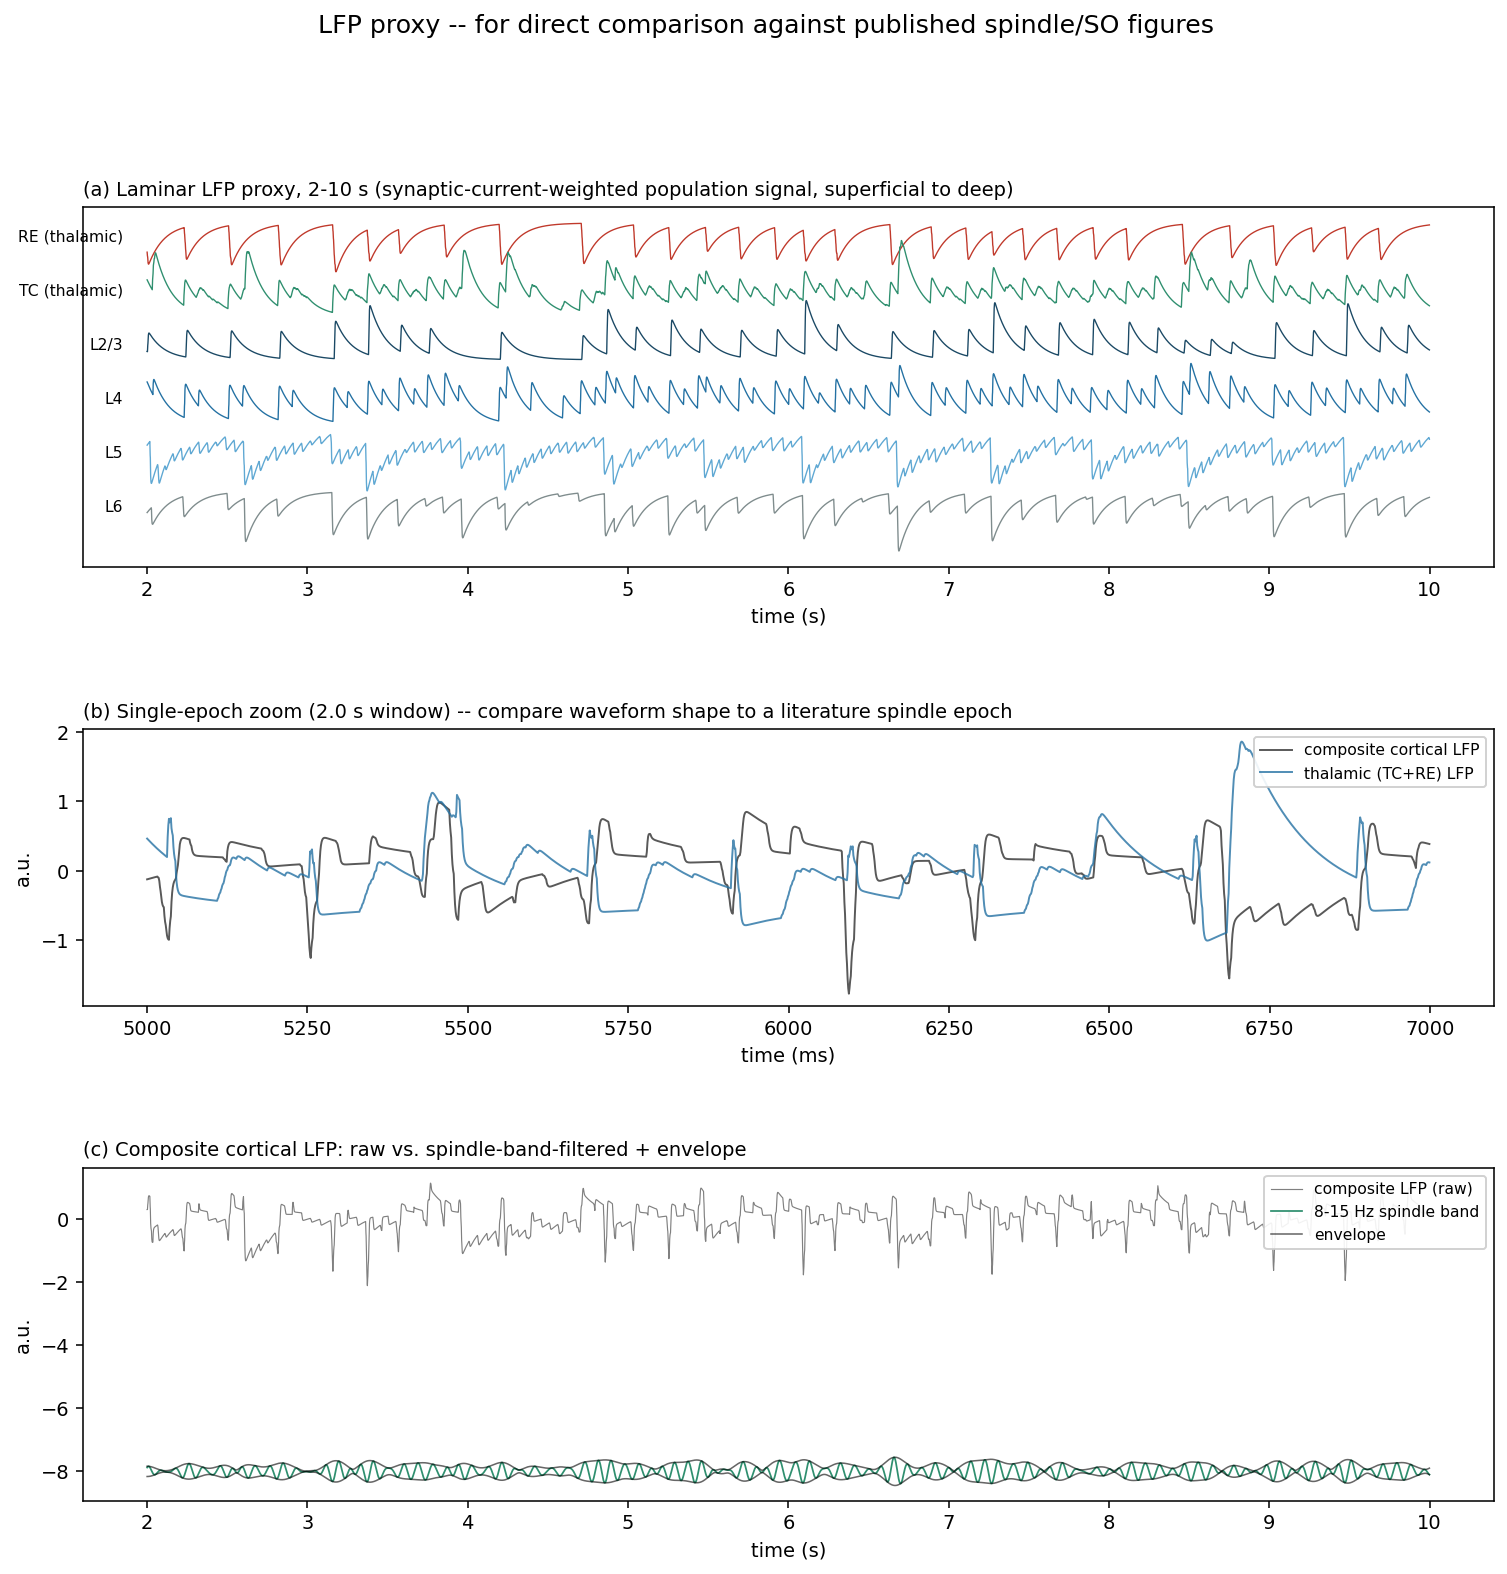
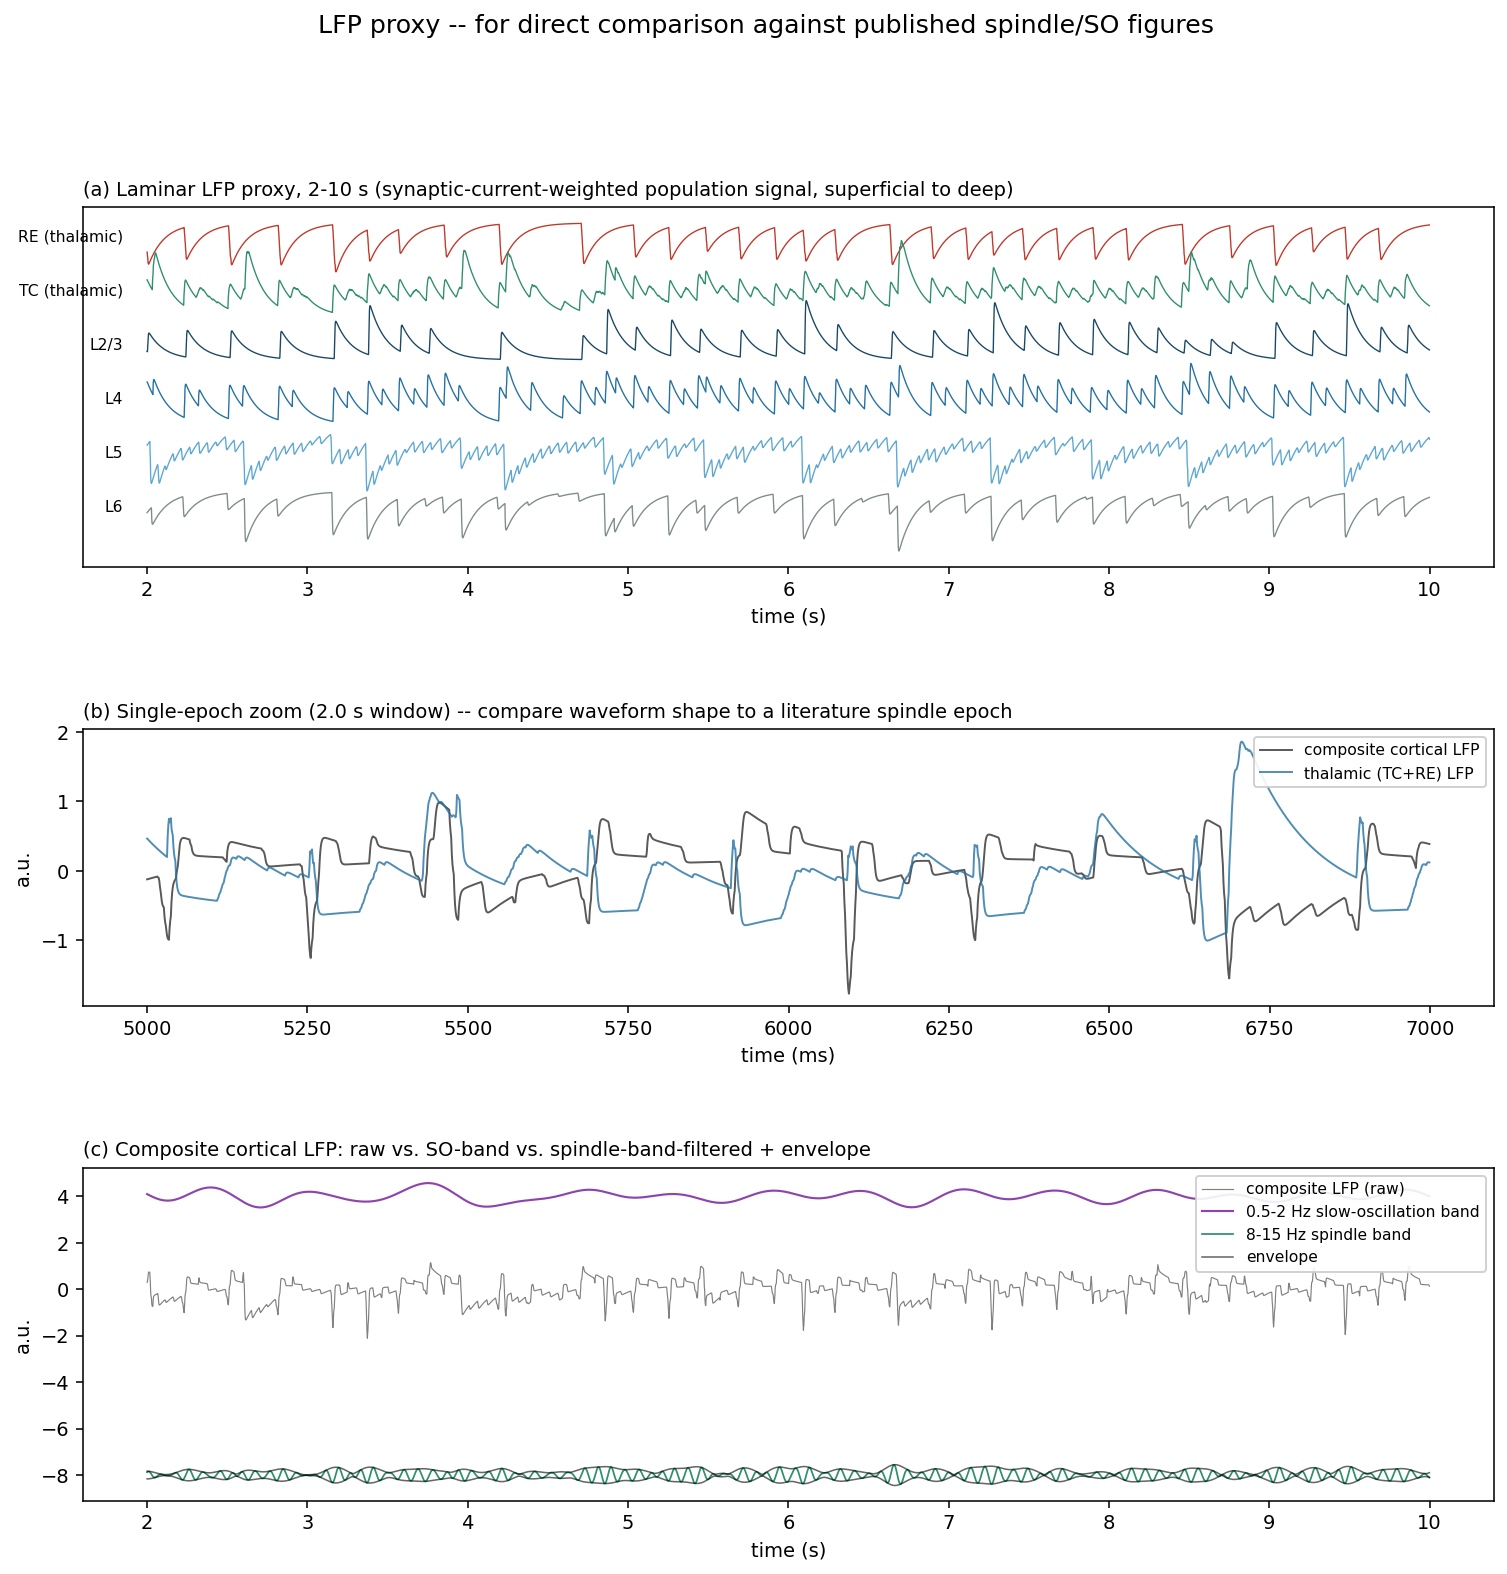
Add SO-band trace to LFP panel (c); add _cycle_metrics + grid sweep
Panel (c) never had a slow-oscillation-band overlay -- only raw and
8-15 Hz spindle band. That's why slow waves stayed invisible there even
for the two cases (tau2=150, taur=150) that visually read as most
SO+spindle-like in panel (a): there was simply no SO-band trace drawn.
Added a 0.5-2 Hz bandpass trace (purple) to panel (c), matching what
panel (a) already showed implicitly in the laminar traces' shape.
Regenerated both flagged cases -- the SO-band trace now shows a clear
~1-1.5 Hz oscillation in both.

Also reframes the tuning criterion: earlier manual tuning treated
"silence between events" as the goal, but real slow-wave-sleep LFP is
a near-continuous ~0.5-1.5 Hz oscillation, not sparse isolated blips --
penalising "busyness" was the wrong criterion. What actually
distinguishes a genuine bounded oscillation from runaway/tonic noise is
REGULARITY (consistent inter-event period) and a bounded spike count,
not literal silence.

New _cycle_metrics(t, g, lo, hi): per-cycle duration (first-to-last
spike span) and cv_interval (coefficient of variation of inter-event
intervals -- regularity), replacing manual spike-train eyeballing.

New --sweep-l5-grid: Cartesian-product grid over --grid-g-l5-rec x
--grid-tau2-l5-rec x --grid-taur-l5e-rs, reporting _cycle_metrics per
point instead of one-at-a-time manual probing (which found tau2_l5_rec
and taur_l5e_rs interact non-monotonically -- see prior commit).
Smoke-tested at 4 points before launching the full 25-point Stage 1
[…]

diff --git a/neuron/ctx_thalamus_mpi.py b/neuron/ctx_thalamus_mpi.py
@@ -35,6 +35,7 @@ tc_mpi.py: see neuron/README.md.
 """
 
 import argparse
+import itertools
 import os
 import sys
 import time
@@ -569,6 +570,36 @@ def _re_burst_stats(t, g, re_lo, re_hi, burst_gap=30.0, event_gap=300.0):
                 event_hz=round(event_hz, 3))
 
 
+def _cycle_metrics(t, g, lo, hi, event_gap=200.0):
+    """Per-cycle DURATION and REGULARITY, for scoring the L5-recurrence
+    duration-extension grid -- deliberately NOT a "silence between events"
+    metric. Real cortical slow-wave sleep LFP is a near-continuous ~0.5-1.5
+    Hz oscillation, not sparse isolated blips separated by long flat gaps;
+    penalising "busyness" outright was the wrong criterion in earlier manual
+    tuning. What actually distinguishes a genuine (bounded) slow oscillation
+    from runaway/tonic noise is REGULARITY (a consistent inter-event
+    period) and a BOUNDED spike count, not literal silence.
+
+    Returns n_events, mean_duration (first-to-last spike span within an
+    event, ms), cv_interval (coefficient of variation of inter-event
+    intervals -- low = regular rhythm, high = irregular/noisy), n_spikes."""
+    m = (g >= lo) & (g < hi)
+    ts = np.sort(t[m])
+    if len(ts) < 2:
+        return dict(n_events=0, mean_duration=0.0, cv_interval=float("nan"),
+                    n_spikes=len(ts))
+    gaps = np.diff(ts)
+    starts_idx = np.concatenate([[0], np.where(gaps > event_gap)[0] + 1])
+    ends_idx = np.concatenate([np.where(gaps > event_gap)[0], [len(ts) - 1]])
+    starts, ends = ts[starts_idx], ts[ends_idx]
+    durations = ends - starts
+    intervals = np.diff(starts)
+    cv = (float(np.std(intervals) / np.mean(intervals))
+          if len(intervals) > 1 and np.mean(intervals) > 0 else float("nan"))
+    return dict(n_events=len(starts), mean_duration=round(float(np.mean(durations)), 1),
+                cv_interval=round(cv, 3) if cv == cv else cv, n_spikes=len(ts))
+
+
 def main():
     ap = argparse.ArgumentParser()
     ap.add_argument("--tstop", type=float, default=12000.0)
@@ -641,6 +672,20 @@ def main():
                          "gh_tc=2e-5, --scale 0.05), likely from the ~3x spike "
                          "count feeding more NetCon delivery events, not the "
                          "integrator step itself.")
+    ap.add_argument("--sweep-l5-grid", action="store_true",
+                    help="Cartesian-product grid sweep over --grid-g-l5-rec x "
+                         "--grid-tau2-l5-rec x --grid-taur-l5e-rs (all "
+                         "comma-separated), --l5-rec-mech nmda. Reports "
+                         "_cycle_metrics (duration, regularity, spike count) "
+                         "for L5E, not just burst-shape stats -- built to "
+                         "map the tau2_l5_rec/taur_l5e_rs interaction after "
+                         "manual one-at-a-time tuning found it non-monotonic.")
+    ap.add_argument("--grid-g-l5-rec", default="0.013",
+                    help="comma-separated g_l5_rec values for --sweep-l5-grid")
+    ap.add_argument("--grid-tau2-l5-rec", default="100,150",
+                    help="comma-separated tau2_l5_rec values for --sweep-l5-grid")
+    ap.add_argument("--grid-taur-l5e-rs", default="80,150",
+                    help="comma-separated taur_l5e_rs values for --sweep-l5-grid")
     ap.add_argument("--sweep-g-l5-rec", default="",
                     help="comma-separated L5E->L5E recurrent-excitation "
                          "weights to sweep (full network, --scale), reporting "
@@ -732,6 +777,50 @@ def main():
             del net
         if rank == 0:
             print("-" * 62)
+        pc.barrier()
+        pc.done()
+        h.quit()
+        return
+
+    if a.sweep_l5_grid:
+        pc = h.ParallelContext()
+        rank, nhost = int(pc.id()), int(pc.nhost())
+        sizes = {k: max(1, int(round(v * a.scale))) for k, v in DEFAULT_SIZES.items()}
+        g_vals = [float(x) for x in a.grid_g_l5_rec.split(",")]
+        tau2_vals = [float(x) for x in a.grid_tau2_l5_rec.split(",")]
+        taur_vals = [float(x) for x in a.grid_taur_l5e_rs.split(",")]
+        grid = list(itertools.product(g_vals, tau2_vals, taur_vals))
+        if rank == 0:
+            print("=== L5 recurrence grid sweep (%d ranks, scale=%.2f, tstop=%.0f ms, "
+                  "%d points) ===" % (nhost, a.scale, a.sweep_tstop, len(grid)))
+            print("%-9s %-9s %-9s | %-9s %-9s %-9s %-8s | %-9s"
+                  % ("g_l5_rec", "tau2", "taur", "L5 spks", "n_ev", "dur_ms",
+                     "cv_int", "tot_spks"))
+            print("-" * 90)
+        for g_l5_rec, tau2, taur in grid:
+            net = ParallelCorticoThalamicNet(sizes=sizes, conv=a.conv,
+                                              het=a.het,
+                                              delay_jitter=a.delay_jitter,
+                                              g_i_e_l5=a.g_i_e_l5,
+                                              g_l5_rec=g_l5_rec,
+                                              tau2_l5_rec=tau2,
+                                              l5_rec_mech="nmda",
+                                              mg_l5_rec=a.mg_l5_rec,
+                                              taur_l5e_rs=taur)
+            net.run(tstop=a.sweep_tstop)
+            t, g = net.gather()
+            if rank == 0:
+                l5_lo, l5_hi = net.ranges["l5e"]
+                cm = _cycle_metrics(t, g, l5_lo, l5_hi)
+                print("%-9.4f %-9.0f %-9.0f | %-9d %-9d %-9.1f %-8s | %-9d"
+                      % (g_l5_rec, tau2, taur, cm["n_spikes"], cm["n_events"],
+                         cm["mean_duration"],
+                         ("%.3f" % cm["cv_interval"]) if cm["cv_interval"] == cm["cv_interval"] else "nan",
+                         len(t)))
+            net.teardown()
+            del net
+        if rank == 0:
+            print("-" * 90)
         pc.barrier()
         pc.done()
         h.quit()

diff --git a/neuron/ctx_analyze.py b/neuron/ctx_analyze.py
@@ -326,15 +326,17 @@ def make_lfp_figure(npz, out_png, window=(20000, 30000), epoch_ms=2000.0):
     ax.set_xlabel("time (ms)"); ax.set_ylabel("a.u.")
     ax.legend(fontsize=8, loc="upper right", framealpha=0.9)
 
-    # ---- (c) composite LFP: raw + spindle band + spectrogram-style summary ----
+    # ---- (c) composite LFP: raw + SLOW-OSCILLATION band + spindle band ----
     ax = fig.add_subplot(gs[2])
+    so = _bandpass(composite, fs, 0.5, 2.0)
     spin = _bandpass(composite, fs, 8.0, 15.0)
     env = np.abs(hilbert(spin))
     ax.plot(tsec, composite[w], color="0.5", lw=0.6, label="composite LFP (raw)")
+    ax.plot(tsec, so[w] + 4, color="#8e44ad", lw=1.1, label="0.5-2 Hz slow-oscillation band")
     ax.plot(tsec, spin[w] - 8, color=GREEN, lw=0.9, label="8-15 Hz spindle band")
     ax.plot(tsec, env[w] - 8, color="k", lw=0.8, alpha=0.6, label="envelope")
     ax.plot(tsec, -env[w] - 8, color="k", lw=0.8, alpha=0.6)
-    ax.set_title("(c) Composite cortical LFP: raw vs. spindle-band-filtered + envelope",
+    ax.set_title("(c) Composite cortical LFP: raw vs. SO-band vs. spindle-band-filtered + envelope",
                  fontsize=10, loc="left")
     ax.set_xlabel("time (s)"); ax.set_ylabel("a.u.")
     ax.legend(fontsize=8, loc="upper right", framealpha=0.9)
